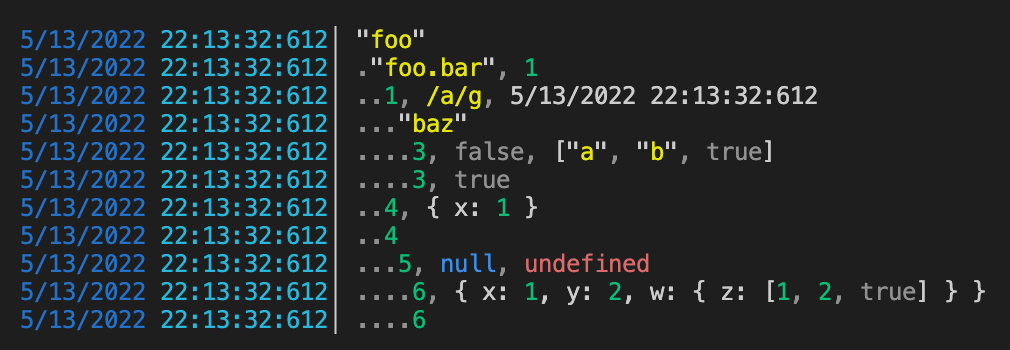
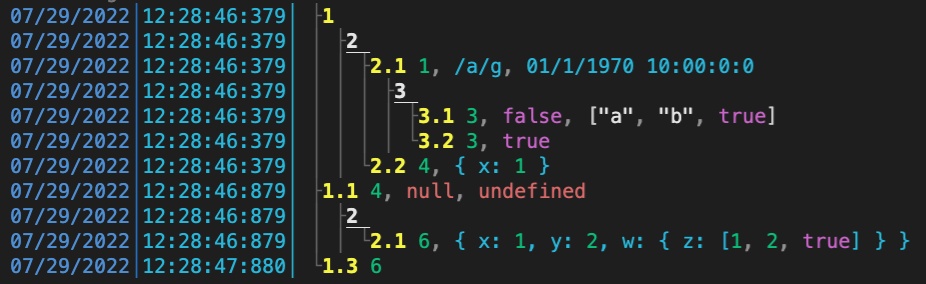
modify readme

Changed region(s): [[0.0, 0.0282, 0.9978, 0.9859]]

diff --git a/test/index.test.ts b/test/index.test.ts
@@ -82,7 +82,7 @@ describe("Tree Log", () => {
 
         console.log(outputFull);
         console.log("toArray:", JSON.stringify(toArray(), null, 4));
-        console.log("flatten:", JSON.stringify(flatten(false), null, 4));
+        console.log("flatten:", JSON.stringify(flatten(true), null, 4));
         expect(outputSnapshot).toMatchSnapshot();
         done();
       }, 1000);

diff --git a/src/index.ts b/src/index.ts
@@ -19,7 +19,7 @@ const state: State = (() => {
   };
 
   return {
-    isEnabled: true,
+    isEnabled: false,
     root,
     head: root,
   };

diff --git a/README.md b/README.md
@@ -8,49 +8,45 @@ Works in both the **Browser** and **Node**.
 
 ### Logging & Nesting
 
-Pass arbitrary arguments to the `log(...)` function.
+Logging is broken down into individual log entries. Each entry consists of a string identifier, followed by any arbitrary values using the `log(identifier: string, ...data: any[])` function.
 
-Log entries can be nested by increasing or decreasing indentation via `push()` or `pop()`. The `push(...)` function also takes arbirtary arguments the same as `log()`. This creates a stack-like mechanism.
+The identifier should provide meaningful context to the point of the log statement and it's recommended to use a dot syntax to create domain context. The arbitrary values become the data of that log entry.
 
 ```javascript
-import { log, push, pop } from 'tree-log`;
+import { log } from "turbo-log";
 
-log("foo");
-push("foo.bar", 1);
-log(1, /a/g, new Date());
-push("baz");
-log(3, false, ["a", "b", true]);
-log(3, true);
-pop();
-log(4, { x: 1 });
-log(4);
-push(5, null, undefined);
-log(6, {
-  asInfo() {
-    return { x: 1, y: 2, w: { z: [1, 2, true] } };
-  },
-});
-log(6);
+log("some-identifier", value1, value2, value3);
 ```
 
-### Serialising Log Output
+Log entries can be nested by increasing or decreasing indentation via `pushLog(identifier: string)` or `popLog()`. This creates a stack-like mechanism.
 
-Use `renderLog(options?: StringifyOptions): string` to create a string output, passing any required options.
+```javascript
+import { log, pushLog, popLog } from "turbo-log";
+
+log("1");
+pushLog("2");
+log("2.1", 1, /a/g, new Date(0));
+pushLog("3");
+log("3.1", 3, false, ["a", "b", true]);
+log("3.2", 3, true);
+popLog();
+log("2.2", 4, { x: 1 });
+popLog();
+```
+
+### Rendering Log Output
+
+For output to console or terminal, use `renderLog(options?: RenderOptions): string` to return a string.
 
 ```javascript
 import { renderLog } from "turbo-log";
 
-console.log(
-  renderLog({
-    showTimeStamp: true,
-    useColor: true,
-  })
-);
+console.log(renderLog());
 ```
 
 ![Example Output](./doc/output1.png)
 
-The following options can be passed to `renderLog()` via a `RenderOptions` object with these optional properties.
+The following options can be passed to `renderLog()` via the `RenderOptions` object with these optional properties.
 
 - `showTimeStamp: boolean` - Show the timestamp prefix for each line (defaultst to `true`)
 - `useTimeDelta: boolean` - Use the milliseconds delta since the last entry, or use the full date and time (defaults to `false`)
@@ -59,7 +55,7 @@ The following options can be passed to `renderLog()` via a `RenderOptions` objec
 
 ### Enabling/Disabling Logging
 
-Logging can be disabled for production scenarios via the `setEnabled()` function.
+Logging can be disabled for production scenarios via the `setEnabled()` function. Logging is disabled by default and must be enabled for development.
 
 ```javascript
 import { setLogEnabled } from "tree-log";
@@ -68,6 +64,8 @@ setLogEnabled(!!process.env.LOGGING);
 ```
 
 Disabled logging means there is no data collected in memory and adds zero performance overheads as the logging functions are skipped. This allows logging code to remain in the application, and be turned on when testing or debugging during development. This makes logging more of a first class diagnostics tool within the application.
+
+Apart from environment variables set during build, it would also be possible for web applications to use localStorage, query parameters, or a hash value to enable logging dynamically. This would allow debugging in production without impacting default use cases. As with any logging, it's up to you to ensure you do not leak sensitive data while logging.
 
 ## Use Cases
 
